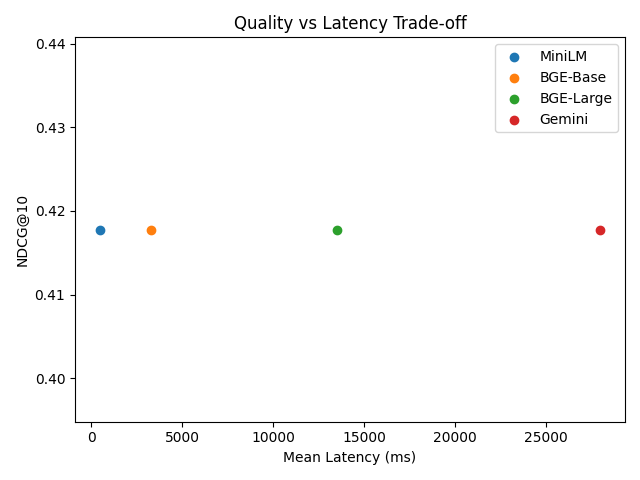
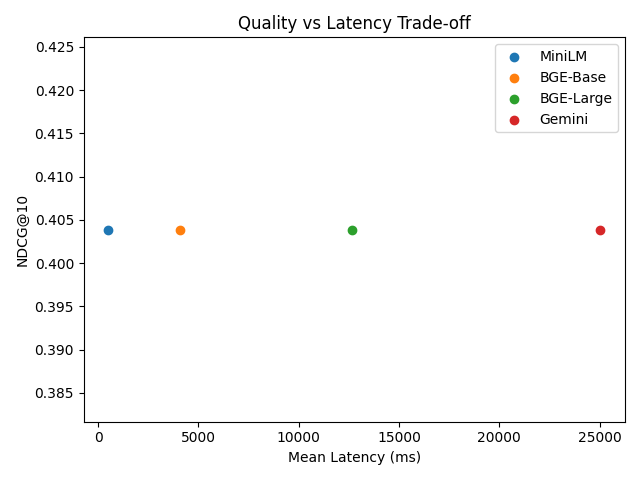
Modified results by creating new results

diff --git a/results/article.md b/results/article.md
@@ -13,10 +13,10 @@ This benchmark uses an AI-generated synthetic dataset consisting of 100 technica
 
 | Model | Recall@1 | Recall@5 | Recall@10 | NDCG@10 |
 |------|----------|----------|-----------|---------|
-| MiniLM | 0.10 | 0.50 | 0.88 | 0.42 |
-| BGE-Base | 0.10 | 0.50 | 0.88 | 0.42 |
-| BGE-Large | 0.10 | 0.50 | 0.88 | 0.42 |
-| Gemini | 0.10 | 0.50 | 0.88 | 0.42 |
+| MiniLM | 0.10 | 0.49 | 0.84 | 0.40 |
+| BGE-Base | 0.10 | 0.49 | 0.84 | 0.40 |
+| BGE-Large | 0.10 | 0.49 | 0.84 | 0.40 |
+| Gemini | 0.10 | 0.49 | 0.84 | 0.40 |
 
 ### Retrieval Quality Visualization
 
@@ -28,10 +28,10 @@ This benchmark uses an AI-generated synthetic dataset consisting of 100 technica
 
 | Model | Mean | P95 | P99 |
 |------|------|-----|-----|
-| MiniLM | 472.50 | 491.71 | 493.45 |
-| BGE-Base | 3266.58 | 3519.15 | 3549.81 |
-| BGE-Large | 13518.19 | 16167.38 | 16470.82 |
-| Gemini | 27957.55 | 37755.17 | 39986.12 |
+| MiniLM | 509.35 | 642.18 | 666.13 |
+| BGE-Base | 4068.72 | 4926.18 | 5082.57 |
+| BGE-Large | 12644.99 | 14582.92 | 14888.27 |
+| Gemini | 25043.83 | 31603.65 | 31777.59 |
 
 ### Latency Visualization
 
